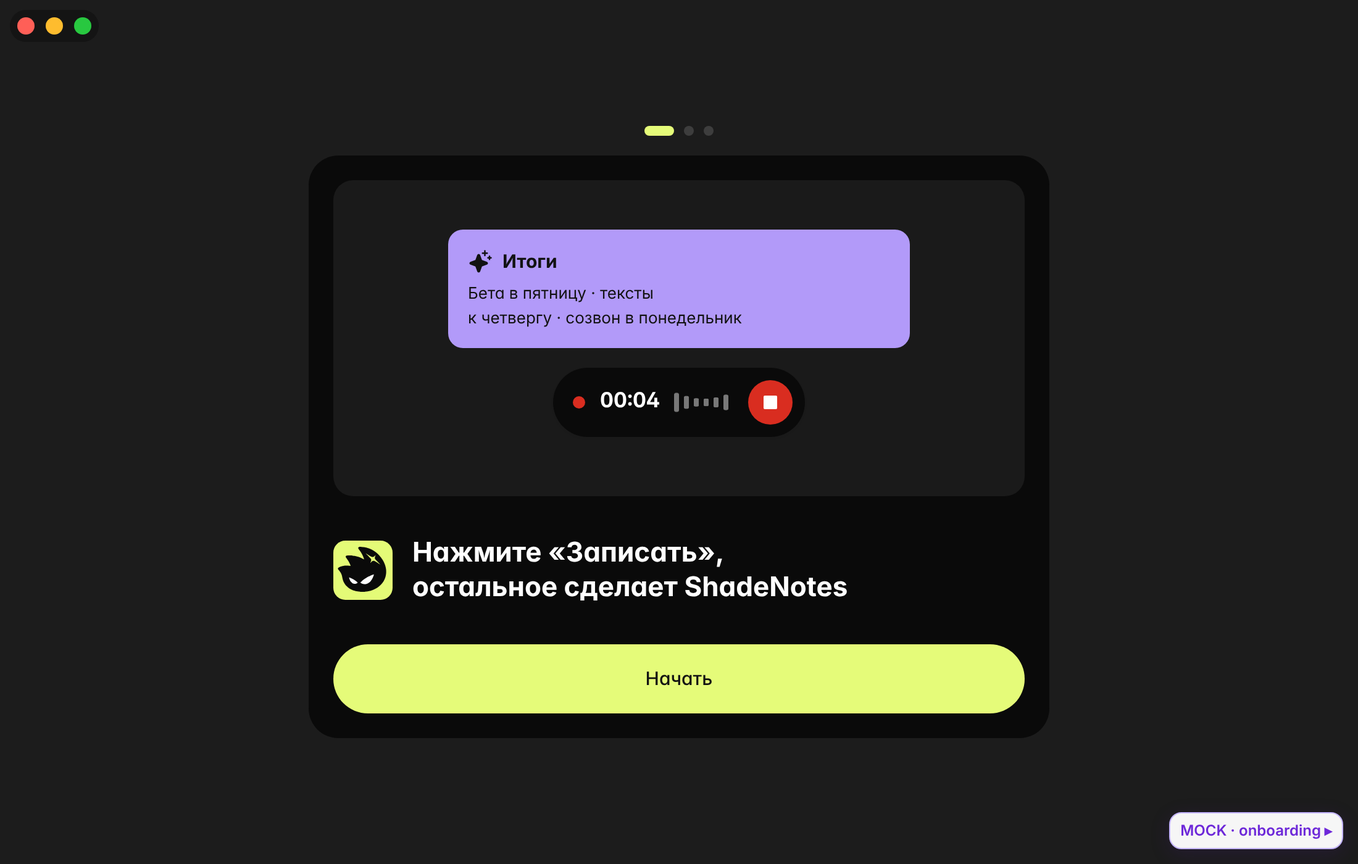
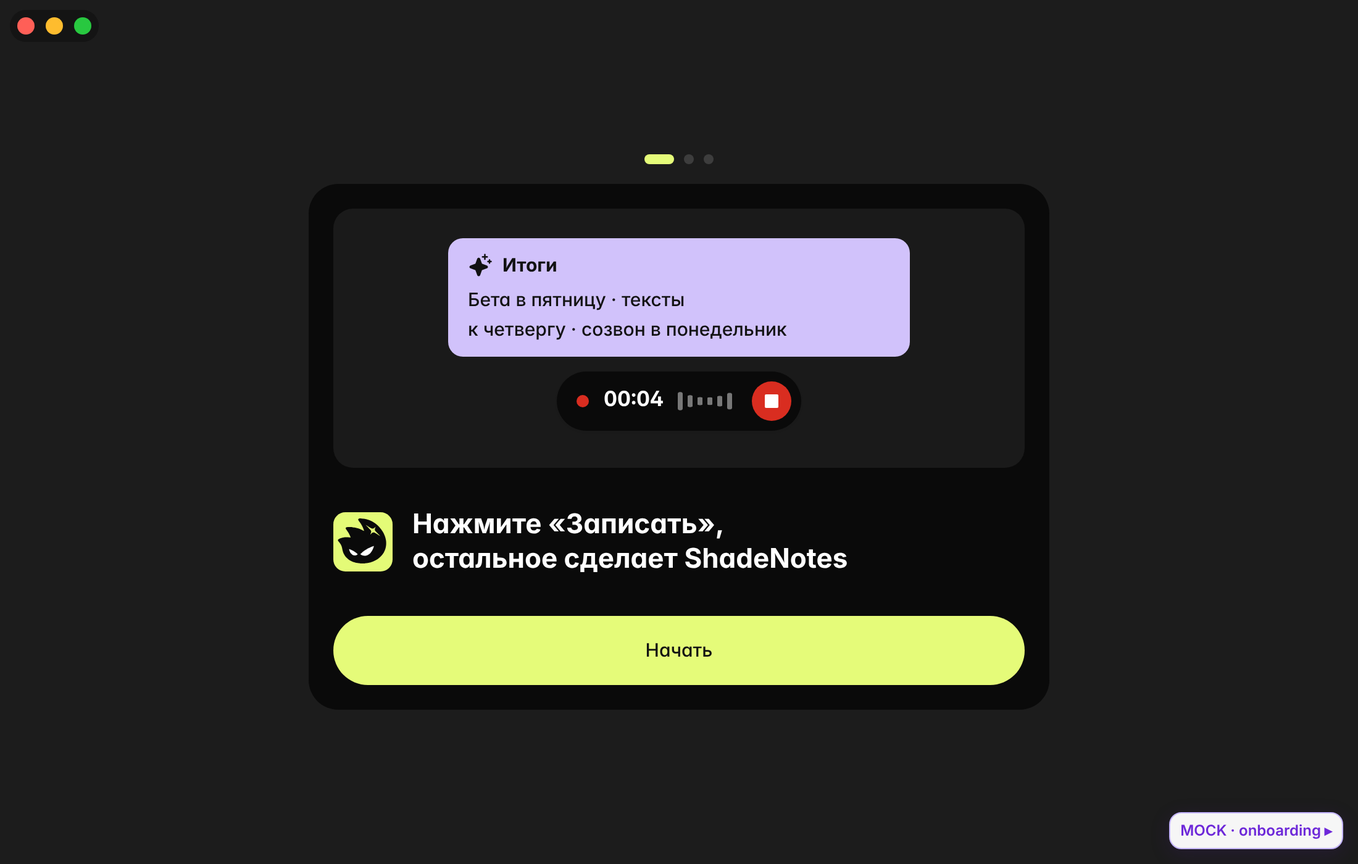
style(aid): контраст текста на Indigo по APCA, обложки пропорционально ширине
- итоги в показе на мягком тоне Indigo (.aid-role-indigo-soft, 60 % роли
  с белым): текст 15 px 500, APCA Lc 75 вместо 57 на насыщенном Indigo
- правило в CLAUDE.md: текст на цвете проверять по APCA (до 16 px не ниже
  Lc 75, крупный полужирный не ниже 60), плотный текст на мягком тоне роли
- обе обложки 8:3 вместо фиксированной высоты; капсула и кнопка показа
  48 px, карточки доступа 72 px, чтобы всё помещалось в 1100 × 700

Claude-Session: https://claude.ai/code/session_01JzvomxkVSAKv3jjRMmSK11

Changed region(s): [[0.2473, 0.5836, 0.7727, 0.8293], [0.3091, 0.2457, 0.68, 0.4914], [0.4636, 0.1229, 0.5255, 0.215]]

diff --git a/frontend/src/aid/components/onboarding/HelloStep.tsx b/frontend/src/aid/components/onboarding/HelloStep.tsx
@@ -71,12 +71,12 @@ function useDemoSeconds() {
   return sec;
 }
 
-/** Обложка с показом. Отступ внутри как у плитки (20 px), группа по оптическому центру. */
+/** Обложка с показом: высота пропорциональна ширине (8:3, как у обложки доступа), отступ как у плитки (20 px), группа по оптическому центру. */
 function DemoRecording() {
   const sec = useDemoSeconds();
   return (
-    <div aria-hidden className="flex h-[256px] items-center justify-center rounded-nested bg-muted p-5">
-      <div className="-mt-2 flex w-[72%] flex-col items-center gap-4">
+    <div aria-hidden className="flex aspect-[8/3] items-center justify-center rounded-nested bg-muted p-5">
+      <div className="-mt-1.5 flex w-[72%] flex-col items-center gap-3">
         {/* Реплики, затем на их месте итоги */}
         <div className="relative h-[96px] w-full">
           <div className="flex flex-col gap-2">
@@ -86,25 +86,25 @@ function DemoRecording() {
               </p>
             ))}
           </div>
-          <div className="aid-ob-demo-sum aid-role aid-role-indigo absolute inset-0 flex flex-col justify-center rounded-[12px] px-4">
+          <div className="aid-ob-demo-sum aid-role aid-role-indigo-soft absolute inset-0 flex flex-col justify-center rounded-[12px] px-4 py-2">
             <p className="flex items-center gap-2 text-[15px] font-bold leading-6">
               <Sparkle className="size-5" />
               {t('obDemoSummary')}
             </p>
-            <p className="mt-1 text-balance text-[13px] leading-5">{t('obDemoSummaryText')}</p>
+            <p className="mt-1 text-balance text-[15px] font-medium leading-6">{t('obDemoSummaryText')}</p>
           </div>
         </div>
         {/* Кнопка «Записать» и капсула на одном месте */}
-        <div className="relative flex h-14 w-full items-center justify-center">
-          <div className="aid-ob-demo-cap flex h-14 items-center gap-3 rounded-full bg-card pl-4 pr-2.5 shadow-sm">
+        <div className="relative flex h-12 w-full items-center justify-center">
+          <div className="aid-ob-demo-cap flex h-12 items-center gap-3 rounded-full bg-card pl-4 pr-2 shadow-sm">
             <span className="size-2.5 rounded-full bg-record" />
             <span className="w-12 text-[17px] font-bold tabular-nums">00:0{sec}</span>
             <SpeechBars count={6} className="h-5 text-foreground/45" />
-            <span className="ml-1 flex size-9 items-center justify-center rounded-full bg-record text-white">
+            <span className="ml-1 flex size-8 items-center justify-center rounded-full bg-record text-white">
               <Stop className="size-4" />
             </span>
           </div>
-          <span className="aid-ob-demo-rec absolute flex size-14 items-center justify-center rounded-full bg-primary text-on-role">
+          <span className="aid-ob-demo-rec absolute flex size-12 items-center justify-center rounded-full bg-primary text-on-role">
             <Microphone className="size-6" />
           </span>
         </div>

diff --git a/frontend/src/aid/components/onboarding/AccessStep.tsx b/frontend/src/aid/components/onboarding/AccessStep.tsx
@@ -80,8 +80,8 @@ type DemoState = 'loop' | 'granted' | 'still';
  */
 function DemoPrompt({ state }: { state: DemoState }) {
   return (
-    <div aria-hidden data-state={state} className="aid-ob-prompt relative flex h-[176px] items-center justify-center overflow-hidden rounded-nested bg-muted p-5">
-      <div className="aid-ob-prompt-card -mt-1 w-[288px] rounded-[16px] bg-card p-4 shadow-sm">
+    <div aria-hidden data-state={state} className="aid-ob-prompt relative flex aspect-[8/3] items-center justify-center overflow-hidden rounded-nested bg-muted p-5">
+      <div className="aid-ob-prompt-card -mt-1 w-[300px] max-w-full rounded-[16px] bg-card p-4 shadow-sm">
         <div className="flex items-start gap-3">
           {/* eslint-disable-next-line @next/next/no-img-element -- статическая выгрузка без оптимизатора изображений */}
           <img src={LOGO_SRC} width={32} height={32} alt="" className="size-8 shrink-0" />
@@ -139,7 +139,7 @@ function AccessCard({
   const needsSettings = state === 'denied' || state === 'unverified' || state === 'slow';
 
   return (
-    <div className="flex min-h-[80px] items-center gap-3 rounded-nested bg-muted py-4 pl-4 pr-3">
+    <div className="flex min-h-[72px] items-center gap-3 rounded-nested bg-muted py-3 pl-4 pr-3">
       <Icon className="size-6 shrink-0 text-foreground" aria-hidden />
       <div className="min-w-0 flex-1">
         <p className="text-[15px] font-semibold leading-6">{TITLE[kind]}</p>

diff --git a/frontend/src/aid/styles/globals.css b/frontend/src/aid/styles/globals.css
@@ -590,6 +590,14 @@ html body[data-scroll-locked] {
   background: hsl(var(--indigo));
 }
 
+/* Мягкий тон Indigo для плотного текста (абзацы, списки, подписи от 13 до 16 px): насыщенный
+   Indigo с тёмным текстом даёт APCA Lc около 57, а тексту такого размера нужно не меньше 75.
+   60 % роли с белым даёт Lc около 75, оттенок роли читается. Насыщенный Indigo остаётся
+   для знаков и крупного полужирного текста. */
+.aid-role-indigo-soft {
+  background: color-mix(in srgb, hsl(var(--indigo)) 60%, #fff);
+}
+
 .aid-role-giants {
   background: hsl(var(--giants));
 }

diff --git a/CLAUDE.md b/CLAUDE.md
@@ -15,13 +15,14 @@
 - Иконки только `@phosphor-icons/react` и только залитые: `weight="fill"` везде (по умолчанию через `AidIcons`), `regular` и другие начертания не использовать. Без иконок со встроенной подложкой: варианты `*Square`, `*Circle` (`CheckCircle`, `WarningCircle`, `Info`, `Question` и т. п.) и всё, что в заливке становится сплошной плашкой (`Subtitles`, `QuestionMark`, `ExclamationMark`). Исключения, `weight="bold"`: шевроны-указатели `CaretRight` в строке списка и `CaretLeft` в кнопке «Назад» (залитый треугольник читается как «воспроизвести»), галочка `Check` и крестик `X` (залитые нарисованы квадратом), лупа поиска `MagnifyingGlass` (залитая рисуется сплошным диском). Размеры: 24 px в кнопках с текстом, в главных круглых кнопках-иконках 56 px и в сайдбаре, 16 и 20 px в мелких местах (миниатюры строк, чипы). Иконки без подложек. Индикатор ожидания только `Spinner` (`src/aid/components/ui/spinner.tsx`, дуга без подложки, цвет `--loader`), скелетоны только `Skeleton` (`--skeleton`); иконки-спиннеры Phosphor не использовать: в заливке это диск с вырезом. Gravity UI, Solar и другие наборы не добавлять. `lucide-react` остаётся только в оригинальных файлах.
 - Токены в `src/aid/styles/globals.css`: одна светлая и одна тёмная тема, шрифт SF Pro (системный стек `-apple-system` в `.aid-font`, в приложение не встраивается; запасной Inter для Windows и Linux). Тёмная наоборот светлой: окно серое `#1C1C1C`, плитки чёрные `#0A0A0A`, вложенный `#1A1A1A`, текст `#FFFFFF` и подписи `#B3B3B3` (9,8:1). Светлая: окно `#ECEEEB`, плитка `#FFFFFF`, вложенный `#F4F4F2`, текст `#111111` и подписи `#4D4D4D` (8,4:1). Без градиентов и свечений. Стекло (`.aid-glass`, в духе Liquid Glass macOS 26: полупрозрачный тон, размытие 32 px с насыщенностью, светлый блик по кромке) только у того, что лежит поверх контента: липкая шапка страницы при прокрутке, капсула записи, меню, подсказки, диалоги (`.aid-glass-pop`, появляются из размытия), уведомления. При `prefers-reduced-transparency` стекло сплошное.
 - Цвет только с ролью (бенто с ролями цвета): лайм ShadeNotes `#E4FB77`, цвет плитки логотипа (`--primary`, `bg-primary`; токены `--mikado*` и класс `bg-mikado` остались прежними именами, значение лайм; текст и иконки акцентом `text-primary-ink`: в светлой тёмная олива `#576E00`, в тёмной сам лайм) главное действие и выбор: «Записать», вкладка, переключатель, фокус (выбранный чип-фильтр на главной без заливки: рамка 2 px `--primary-edge`, на белом темнее лайма, и лёгкое стекло внутри, `.aid-chip-on`); заливка сплошная, текст `#111`. Выбранный раздел сайдбара не жёлтый, а тёмно-серая таблетка с белой иконкой (`bg-nav-active`). Indigo `#B49DF8` (`bg-indigo`, `variant="indigo"`, `.aid-role-indigo`) итоги и всё, что делает ИИ. Giants `#EA6E38` (`.aid-role-giants`) «Не распознано» и предупреждения. Красный (`--record`, `--destructive`) только «Остановить», точка записи и удаление. Текст на лайме, Indigo и Giants `#111` (`text-on-role`, класс `.aid-role`), на красном белый. Белый на Giants даёт 3,09:1, поэтому не использовать. Знаки ролей на нейтральной плитке через `text-*-ink`. Кобальт `#3044D8` и монохромная красная кнопка записи удалены.
+- Контраст текста на цвете проверять по APCA (Lc, модель восприятия контраста; WCAG 2 переоценивает тёмный текст на среднесветлом цвете): текст до 16 px не ниже Lc 75, крупный полужирный (от 18 px 600) не ниже Lc 60. Лайм с текстом `#111` проходит (Lc ≈ 96). Насыщенные Indigo (Lc ≈ 57) и Giants с тёмным текстом для плотного текста не годятся: на них только знаки и крупный полужирный заголовок, а абзацы, списки и подписи на мягком тоне роли (`.aid-role-indigo-soft`: Indigo 60 % с белым, Lc ≈ 75). На цветном фоне текст не приглушать (`muted`, прозрачность) и не делать тоньше 500.
 - Правило двух плиток: на экране не больше двух цветных плиток одновременно. Цветная плитка итогов (Indigo) или «Не распознано» (Giants), и не обе сразу.
 - Типографика: заголовок экрана 36/40 700, заголовок раздела 22/28 700, таймер 32/36 700, текст 15 px, колонка текста до 760 px. Без лесенки: заголовки, подсказки и короткие статусы переносятся ровными строками (`text-wrap: balance`), абзацы без одиноких слов (`pretty`), правило в `globals.css`. Подсказки (`TooltipContent`) в цвете всплывающих панелей темы с обводкой.
 - Геометрия бенто: 8 px между плитками и от края окна (`--tile-gap`), 20 px внутри плитки (`--tile-pad`, `TILE` в `Page.tsx`), радиус плитки 24 (`--tile-radius`, `rounded-tile`), вложенного 16 (= плитка минус `--inner-gap` 8, `rounded-nested`), кнопки, поля, чипы и миниатюры таблетками. Контролы 48 px, главные действия 56 px (`size="main"`, иконка 24 px без подложки, `.aid-btn`). Без рамок и декоративных подложек.
 - Каркас (`app/layout.tsx`): слева колонка 72 px: на macOS сверху подложка кнопок окна (`WindowBar`, таблетка 72 × 26 px, цвет между фоном окна и плитками `.aid-window-strip`, `data-tauri-drag-region`; кнопки окна в ней по центру, группа кнопок 60 × 14 pt, со всех сторон по 6 pt: `trafficLightPosition` x 14, y 23), ниже через 8 px сайдбар; колонка страницы справа во всю высоту окна, полосы во всю ширину нет. Подложка видна с классом `aid-titlebar-overlay` (Tauri на macOS, в браузере на заглушках с нарисованными кнопками). Слева сайдбар 72 px отдельной плиткой (`AidSidebar`): сверху логотип ShadeNotes 48 px, как кнопки сайдбара (по 12 px от краёв и сверху, радиус 12 концентрично сайдбару), ведёт к списку встреч (пункта «Встречи» нет, вкладка одна), внизу «Настройки», приватность и переключатель темы таблеткой. Справа контент страницы (`Page`): шапка липкая, при прокрутке становится стеклом; область прокрутки обрезана по радиусу плитки (`.aid-round-clip`), плитки у краёв окна уходят под скругление, а не обрываются. Внизу по центру поверх контента плавает запись (`RecordDock`), снизу у контента запас `--dock-space`, только если контент до капсулы доходит (`data-fits` в `Page`): иначе прокрутки нет. Полоса прокрутки тонкая (бегунок 4 px), видна при прокрутке и наведении, начинается под шапкой и не заходит в скругления. Встреча и настройки открываются на главной (`/?id=…` и `/?view=settings&tab=…` через `history.pushState`, `lib/open-meeting.ts`), без перехода между страницами: в окне Tauri на macOS переход зависал (кнопка «Настройки» казалась ненажимающейся). Переходы на `/meeting-details` и `/settings` переводит на место `lib/in-place-router.tsx`. Новый экран мягко проявляется (`.aid-page-in` в `Page`, 0,24 с). Окно стартует скрытым (`"visible": false` в `tauri.conf.json`) и показывается из `src/aid/lib/window-boot.ts` сразу после разметки заставки (`LaunchScreen`), с фоном темы: без белой вспышки при запуске.
 - Запись (`RecordDock`): в покое круглая кнопка лайм 88 px на 28 px от низа (`--dock-space` 136 px) с микрофоном и двумя мягкими волнами, сочетание ⌘⇧R в подсказке. Во время записи стеклянная капсула: красная точка с кольцом на речь, таймер, полосы речи (по сегментам детектора речи: уровня звука ядро не отдаёт), круглая «Пауза» 56 px и красная «Остановить». «Не слышу речи» стеклянной карточкой над капсулой. После стопа итог карточкой на том же месте (`NoticeCard`): плотное стекло, радиус плитки, знак в круге 44 px слева (у «Не распознано» Giants, у остальных нейтральный), две короткие строки, справа «Проверить звук» текстом и крестик; появляется из размытия, уходит плавно (`.aid-dock-out`, 0,28 с) (в разработке: `?notice=unrecognized|no-speech|too-little`). Смена состояний появляется из размытия.
 - Логотип ShadeNotes: чёрный силуэт с белыми глазами и лаймовой искрой на лаймовой плитке (`public/brand/shadenotes.svg` и `shadenotes.png`, тот же рисунок в иконке приложения `src-tauri/icons`). Статичный, без эмоций и анимаций: в сайдбаре 48 px (`BrandMark.tsx`) и на заставке запуска. Лайм логотипа и есть акцент интерфейса (`--primary`). Иконку приложения не менять без просьбы.
-- Первый запуск (`components/onboarding/AidOnboarding.tsx`, показывает `app/layout.tsx` при `NEXT_PUBLIC_UI=aid`; оригинальный мастер для `original`): минималистично, одна плитка до 600 px по центру на фоне окна (внутри 20 px, как у всех плиток, отступы по шкале 8 / 12 / 16 / 20 / 24 / 32, заголовок шага 22/28 кирпичиком: balance, колонка около 30 символов; описания pretty, до 52 символов; «ShadeNotes» и предлоги не отрываются, неразрывный пробел в строках), сверху точки шага, подложка кнопок окна на месте; каждый шаг помещается в окно 1100 × 700. Шаги: 1) обложка с живым показом работы (`HelloStep`, цикл 6 с: кнопка «Записать» становится капсулой с таймером, реплики по очереди через 150 мс, их сменяют итоги Indigo, итоговый кадр стоит 1,7 с и гаснет; реплики и капсула одной группой по оптическому центру, около 65 % обложки), логотип, одна строка «Нажмите «Записать», остальное сделает ShadeNotes» и «Начать»; загрузка моделей стартует уже здесь; 2) «Доступ к звуку» (`AccessStep`, только macOS): обложка с показом запроса macOS (стилизованное окно, указатель подходит сбоку по кривой и нажимает «Разрешить»; при доступе стоит «Доступ есть», при отказе стоит окно без указателя), карточки «Микрофон» (обязателен) и «Звук с компьютера», «Продолжить» (неактивная нейтральная, лайм только у активной) и тихая «Позже»; 3) «Почти готово» (`ReadyStep`): прогресс модели распознавания, пропускается, если она скачана. Доступ: `useAccessChecks` («Открыть настройки» с `preferencePane`, при возврате фокуса перепроверка, неизменившийся ответ нейтрально «Проверим при первой записи»). Логика из `useOnboarding()` оригинала. У вызовов ядра предел 8 с (`lib/onboarding.ts`), потом «Продолжить всё равно». В конце без `window.location.reload()`: `completeOnboarding()`, затем `onComplete`, layout заново монтирует провайдеры через `key`, приложение проявляется (`.aid-app-enter`). Смена шагов размытием и сдвигом (`.aid-ob-*`), при `prefers-reduced-motion` без движения, показы стоят на итоговом кадре. Полоски в показе украшение, а не уровень звука.
+- Первый запуск (`components/onboarding/AidOnboarding.tsx`, показывает `app/layout.tsx` при `NEXT_PUBLIC_UI=aid`; оригинальный мастер для `original`): минималистично, одна плитка до 600 px по центру на фоне окна (внутри 20 px, как у всех плиток, отступы по шкале 8 / 12 / 16 / 20 / 24 / 32, заголовок шага 22/28 кирпичиком: balance, колонка около 30 символов; описания pretty, до 52 символов; «ShadeNotes» и предлоги не отрываются, неразрывный пробел в строках), сверху точки шага, подложка кнопок окна на месте; каждый шаг помещается в окно 1100 × 700. Обе обложки с высотой пропорционально ширине (8:3). Шаги: 1) обложка с живым показом работы (`HelloStep`, цикл 6 с: кнопка «Записать» становится капсулой с таймером, реплики по очереди через 150 мс, их сменяют итоги на мягком тоне Indigo (`.aid-role-indigo-soft`, 15 px 500, Lc ≈ 75), итоговый кадр стоит 1,7 с и гаснет; реплики и капсула одной группой по оптическому центру, около 65 % обложки), логотип, одна строка «Нажмите «Записать», остальное сделает ShadeNotes» и «Начать»; загрузка моделей стартует уже здесь; 2) «Доступ к звуку» (`AccessStep`, только macOS): обложка с показом запроса macOS (стилизованное окно, указатель подходит сбоку по кривой и нажимает «Разрешить»; при доступе стоит «Доступ есть», при отказе стоит окно без указателя), карточки «Микрофон» (обязателен) и «Звук с компьютера», «Продолжить» (неактивная нейтральная, лайм только у активной) и тихая «Позже»; 3) «Почти готово» (`ReadyStep`): прогресс модели распознавания, пропускается, если она скачана. Доступ: `useAccessChecks` («Открыть настройки» с `preferencePane`, при возврате фокуса перепроверка, неизменившийся ответ нейтрально «Проверим при первой записи»). Логика из `useOnboarding()` оригинала. У вызовов ядра предел 8 с (`lib/onboarding.ts`), потом «Продолжить всё равно». В конце без `window.location.reload()`: `completeOnboarding()`, затем `onComplete`, layout заново монтирует провайдеры через `key`, приложение проявляется (`.aid-app-enter`). Смена шагов размытием и сдвигом (`.aid-ob-*`), при `prefers-reduced-motion` без движения, показы стоят на итоговом кадре. Полоски в показе украшение, а не уровень звука.
 - Главная одной плиткой, как в Я.Музыке (`Page`, раскладка tile): шапка («Встречи» 36/40 и серая подпись, справа круглые кнопки 56 px поиска с лупой и импорта аудио, ниже чипы-фильтры Все, С итогами, Не распознано, Корзина; поле поиска выезжает влево отдельной таблеткой до 280 px, кнопка остаётся на месте, и лупа в ней поворотом превращается в крестик «Закрыть поиск»; чипы остаются; Esc и крестик сворачивают и очищают, пустое поле сворачивается при потере фокуса; обводка фокуса внутри поля) липкая; при прокрутке список уходит под неё: шапка стеклом без рамки, нижний край растворяется полосой 28 px (`.aid-edge-fade`, scroll edge effect Liquid Glass), без линии. Ниже список, строки без вложенных карточек с миниатюрой состояния 48 px; от 1100 px ширины списка две колонки (`@container`). Встреча: плитка-шапка («Назад», действия таблетками, название 36/40, мета подписью и значением), плитка итогов Indigo свёрнута в полосу-заголовок, плитка транскрипта; без текста плитка Giants «Речь не распознана» с действиями. Настройки: шапка с вкладками, разделы плитками с заголовком 22/28, управление справа в колонке 200 px.
 - Логику записи и данных не дублировать: брать хуки и контексты оригинала (`useRecordingStart`, `useRecordingStop`, `TranscriptContext`).
 - Переключатель интерфейса: `NEXT_PUBLIC_UI=aid` (по умолчанию) или `original` в `frontend/.env.local`.
